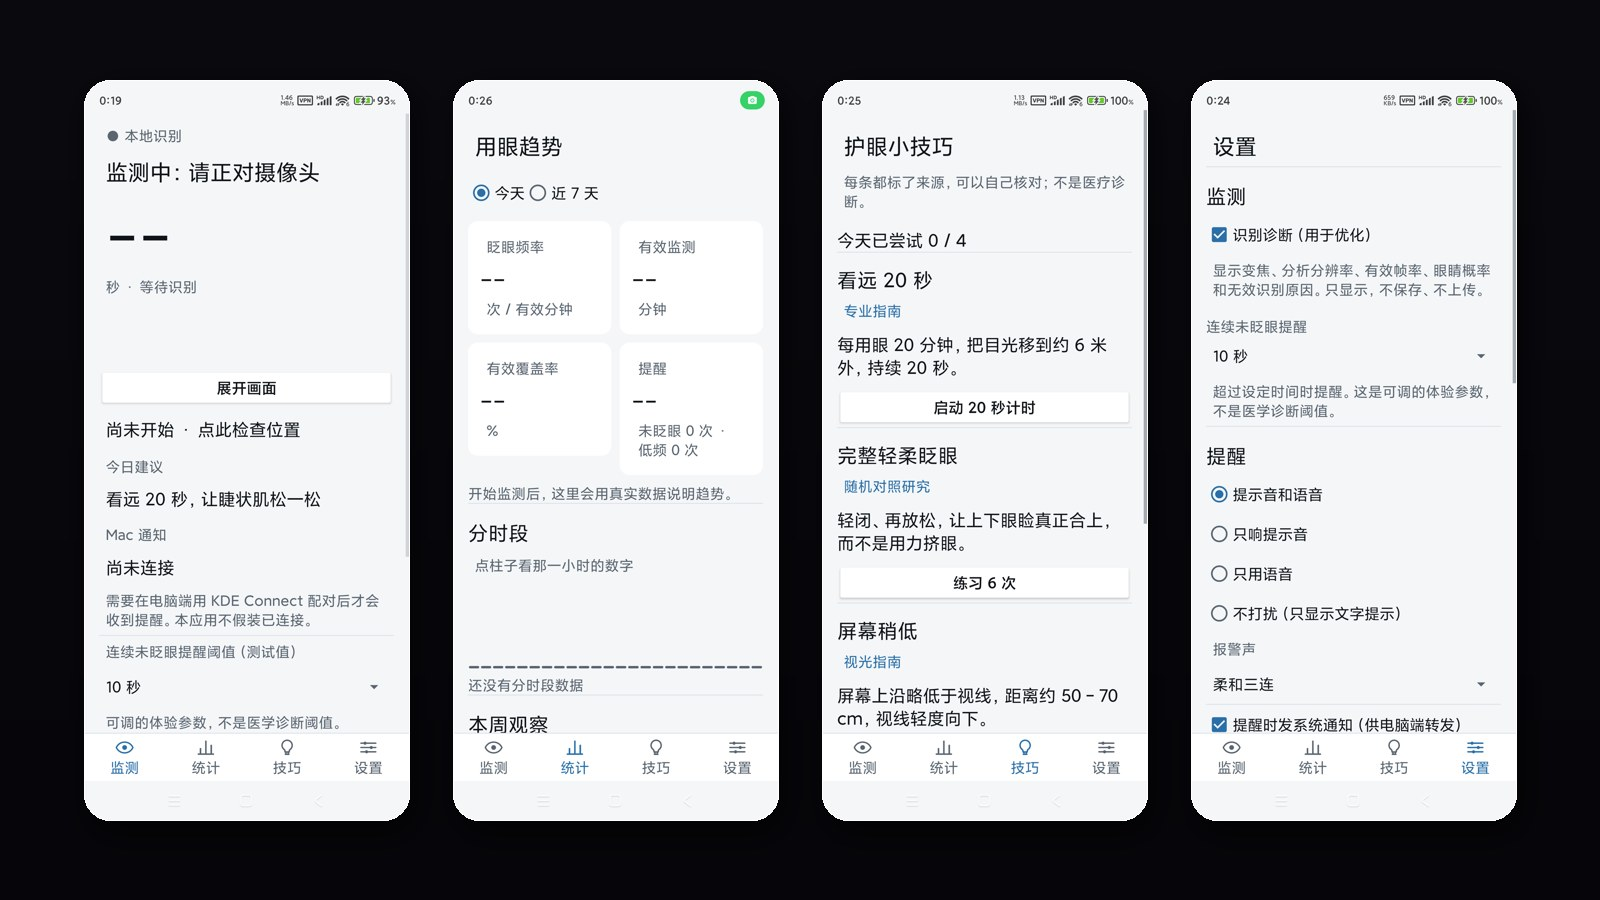
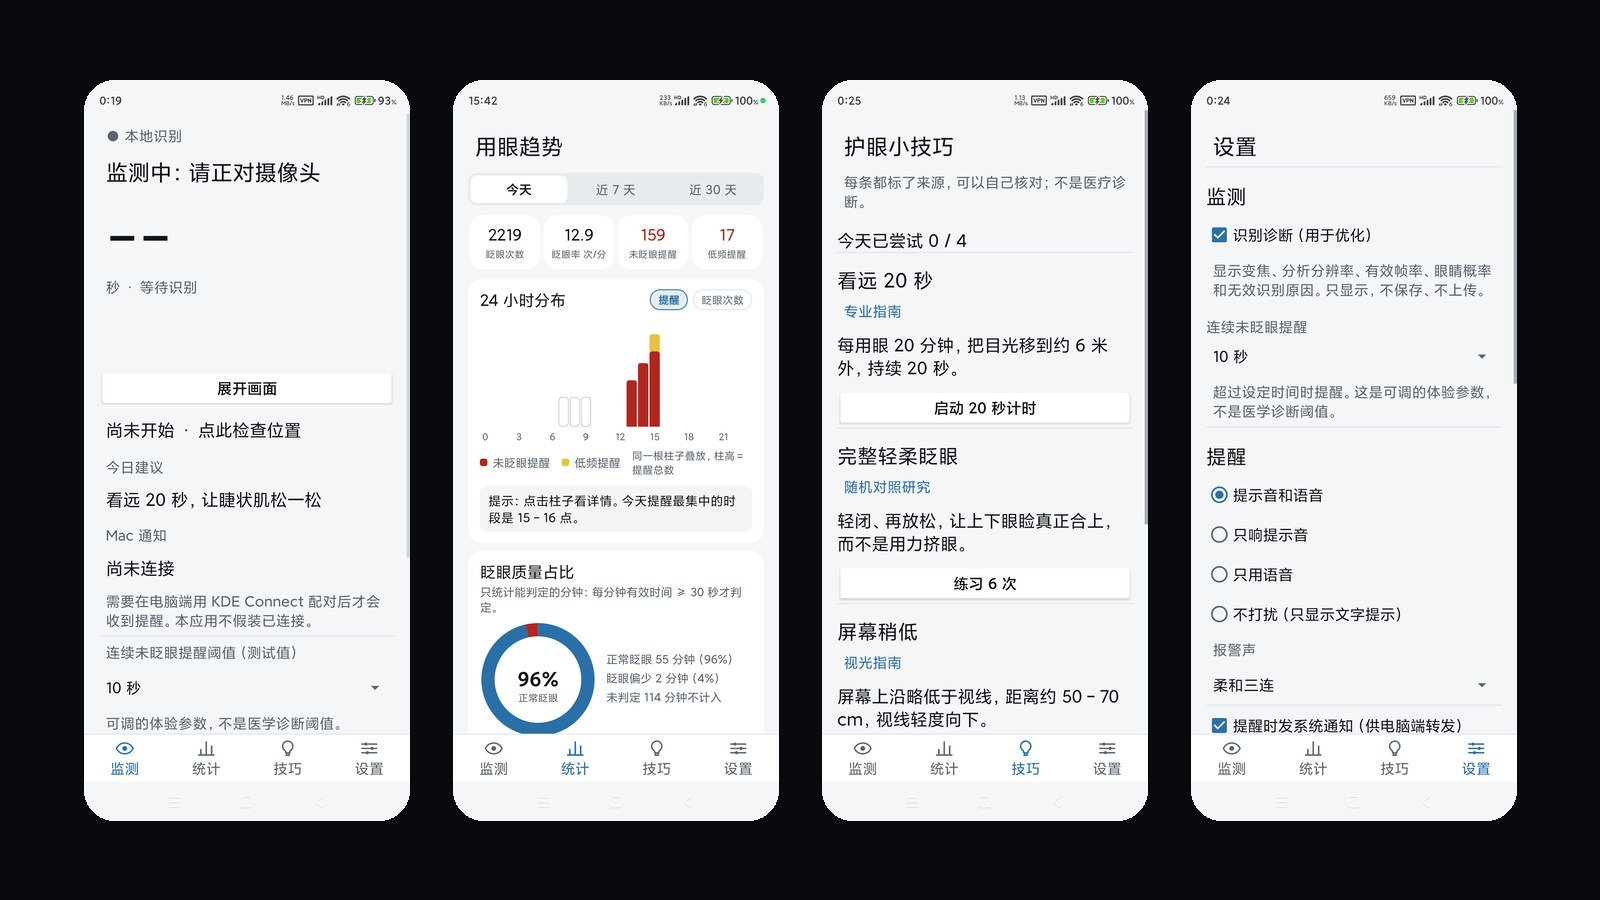
docs(content): 眨眼守护条目对齐统计改版与首次发布签收
仓库 README hero 的统计页截图已换成改版后的堆叠柱视图，站点封面按同源规则
用同一组四张真机图重合成 16:9；条目正文与英文详情同步改写。
数字全部现量复核：单测 29 类 303 条、验收矩阵 71 条（42/26/2/1）、
首次发布 2026-10-21 用户签收通过（带已知限制）。

diff --git a/app/i18n.detail.ts b/app/i18n.detail.ts
@@ -416,9 +416,9 @@ export const projectDetailEn: Record<string, ProjectDetailEn> = {
     challenge:
       "That reported case was the hardest one: the analysis frame was only 640×480, head yaw past 18° was rejected as ‘turn your head’, and a blink needed two consecutive closed-eye frames — so looking up-right with glasses missed the most. Alert pacing had its own trap: a brief loss of face reset the 30-second repeat cooldown, measured at three alerts inside 12 seconds. The cross-device leg depends on a third-party relay, so whether it reaches the desktop is not this app's decision.",
     solution:
-      "CameraX preview plus on-device ML Kit face detection; only a complete close-then-open cycle counts. The analysis stream moved to 1280×960 with 1.0/1.2/1.5× zoom; at 30–40° of side gaze it uses the more closed eye and falls back to whichever eye probability survives. Reminders obey 30 s and 90 s cooldowns with a 2 s minimum gap, and the last-alert timestamps persist with the session state, so leaving and coming back no longer resets them. The UI is a four-tab layout (Monitor / Stats / Tips / Settings); stats report blinks per effective minute as 24 hourly bars for today and 7 daily bars for the week, showing 0 below 60 effective seconds. Each reminder also posts a silent, text-only system notification for a desktop relay to forward, and if that relay fails the phone's own audio reminders carry on.",
+      "CameraX preview plus on-device ML Kit face detection; only a complete close-then-open cycle counts. The analysis stream moved to 1280×960 with 1.0/1.2/1.5× zoom; at 30–40° of side gaze it uses the more closed eye and falls back to whichever eye probability survives. Reminders obey 30 s and 90 s cooldowns with a 2 s minimum gap, and the last-alert timestamps persist with the session state, so leaving and coming back no longer resets them. The UI is a four-tab layout (Monitor / Stats / Tips / Settings); the Stats tab stacks no-blink alerts (red) and low-rate alerts (yellow) inside one bar so its height is the total alert count, across today's 24 hourly slots, the last 7 days and the last 30 days, with four KPI cards, a one-line insight and donut charts, and tapping any bar opens that period's detail. Rates are always blinks per effective minute, and anything under 60 effective seconds shows 0. Each reminder also posts a silent, text-only system notification; relaying it to the desktop never worked in testing and that approach has been dropped by the user's decision, while the phone's own tone and voice reminders are unaffected.",
     outcome:
-      "Measured on a Redmi Note 11T Pro+ (Android 14): 30 human-counted blinks with glasses 30/30; without glasses 26/30 (one short, recorded as a known limitation); 2 h 03 m in one process, 0 crashes, 37.6 °C, battery 90% → 75%. 28 test classes and 285 unit tests green, lint reports 0 errors; the shipped APK asks for CAMERA and POST_NOTIFICATIONS only, with no INTERNET. Of the 72 acceptance items, 42 pass, 27 await evidence and 3 are blocked by external conditions — first-release user sign-off has not happened. The repository ships no APK binary; build it from source per the README.",
+      "Measured on a Redmi Note 11T Pro+ (Android 14): 30 human-counted blinks with glasses 30/30; without glasses 26/30 (one short, recorded as a known limitation); 2 h 03 m in one process, 0 crashes, 37.6 °C, battery 90% → 75%. 29 test classes and 303 unit tests green, lint reports 0 errors; the shipped APK asks for CAMERA and POST_NOTIFICATIONS only, with no INTERNET. Of the 71 acceptance items, 42 pass, 26 await evidence, 2 are blocked by external conditions and 1 was closed by the user's decision; the first release was signed off by the user on 2026-10-21 with its known limitations accepted. The repository ships no APK binary; build it from source per the README.",
     tags: ["Android", "On-device detection", "Offline, no network", "Eye-care reminder"],
   },
 };

diff --git a/app/content.ts b/app/content.ts
@@ -1226,9 +1226,9 @@ export const projects: Project[] = [
     challenge:
       "最难的一类场景正是那条反馈：分析画面只有 640×480、侧看超过 18° 就被判成转头、要连续两帧闭眼才算一次眨眼，戴眼镜往屏幕右上角看时漏得最多。提醒节奏同样有坑：人脸短暂离开画面会把 30 秒重复冷却重置，实测 12 秒连发三条。跨设备那一段还得依赖第三方转发链路，能不能到桌面不由本应用决定。",
     solution:
-      "CameraX 前置取景加 ML Kit 本地人脸检测，只有完整的「闭眼—睁开」才计一次；分析画面提到 1280×960，提供 1.0/1.2/1.5× 三档变焦，侧看 30–40° 时按较闭合的那只眼判断、一只眼概率缺失时兜底另一只。提醒走 30 秒与 90 秒冷却加 2 秒最小间隔，上次提醒时间随会话状态持久化，离脸再回来也不重置。界面是监测/统计/技巧/设置四页底栏，统计按「次 / 有效分钟」出今天 24 柱与近 7 天 7 柱，有效时长不足 60 秒显示 0。提醒触发时另外发一条静音、纯文字的系统通知供电脑端转发到 Mac，转发不通时手机原有声音提醒照常工作。",
+      "CameraX 前置取景加 ML Kit 本地人脸检测，只有完整的「闭眼—睁开」才计一次；分析画面提到 1280×960，提供 1.0/1.2/1.5× 三档变焦，侧看 30–40° 时按较闭合的那只眼判断、一只眼概率缺失时兜底另一只。提醒走 30 秒与 90 秒冷却加 2 秒最小间隔，上次提醒时间随会话状态持久化，离脸再回来也不重置。界面是监测/统计/技巧/设置四页底栏，统计页把未眨眼提醒（红）与低频提醒（黄）叠在同一根柱子上、柱高即提醒总数，覆盖今天 24 小时、近 7 天与近 30 天三档视图，配四项 KPI 卡、一句话洞察和占比环形图，点任意柱子看该时段明细；频率统一按「次 / 有效分钟」，有效时长不足 60 秒显示 0。提醒触发时另外发一条静音、纯文字的系统通知，跨设备转发到电脑桌面经实测未能打通，已按用户决定放弃，手机本机的提示音与语音提醒不受影响。",
     outcome:
-      "真机（Redmi Note 11T Pro+ / Android 14）实测：戴眼镜 30 次人工对照 30/30，不戴眼镜 26/30（低一次，已作为已知限制记录）；同一进程连续运行 2 小时 03 分、0 崩溃、37.6°C、电量 90%→75%。28 个测试类 285 条单元测试全绿，lint 0 error；交付 APK 只申请 CAMERA 与 POST_NOTIFICATIONS，没有 INTERNET。验收矩阵 72 条：42 条通过、27 条待补证、3 条被外部条件阻塞，首次发布签收尚未完成。仓库不分发安装包，需按 README 自行构建。",
+      "真机（Redmi Note 11T Pro+ / Android 14）实测：戴眼镜 30 次人工对照 30/30，不戴眼镜 26/30（低一次，已作为已知限制记录）；同一进程连续运行 2 小时 03 分、0 崩溃、37.6°C、电量 90%→75%。29 个测试类 303 条单元测试全绿，lint 0 error；交付 APK 只申请 CAMERA 与 POST_NOTIFICATIONS，没有 INTERNET。验收矩阵 71 条：42 条通过、26 条待补证、2 条被外部条件阻塞、1 条按用户决定关闭，首次发布已于 2026-10-21 由用户签收通过（带已知限制）。仓库不分发安装包，需按 README 自行构建。",
     gallery: [],
     repoUrl: "https://github.com/wanghoufan/p053-eye-health-monitor",
     links: [
